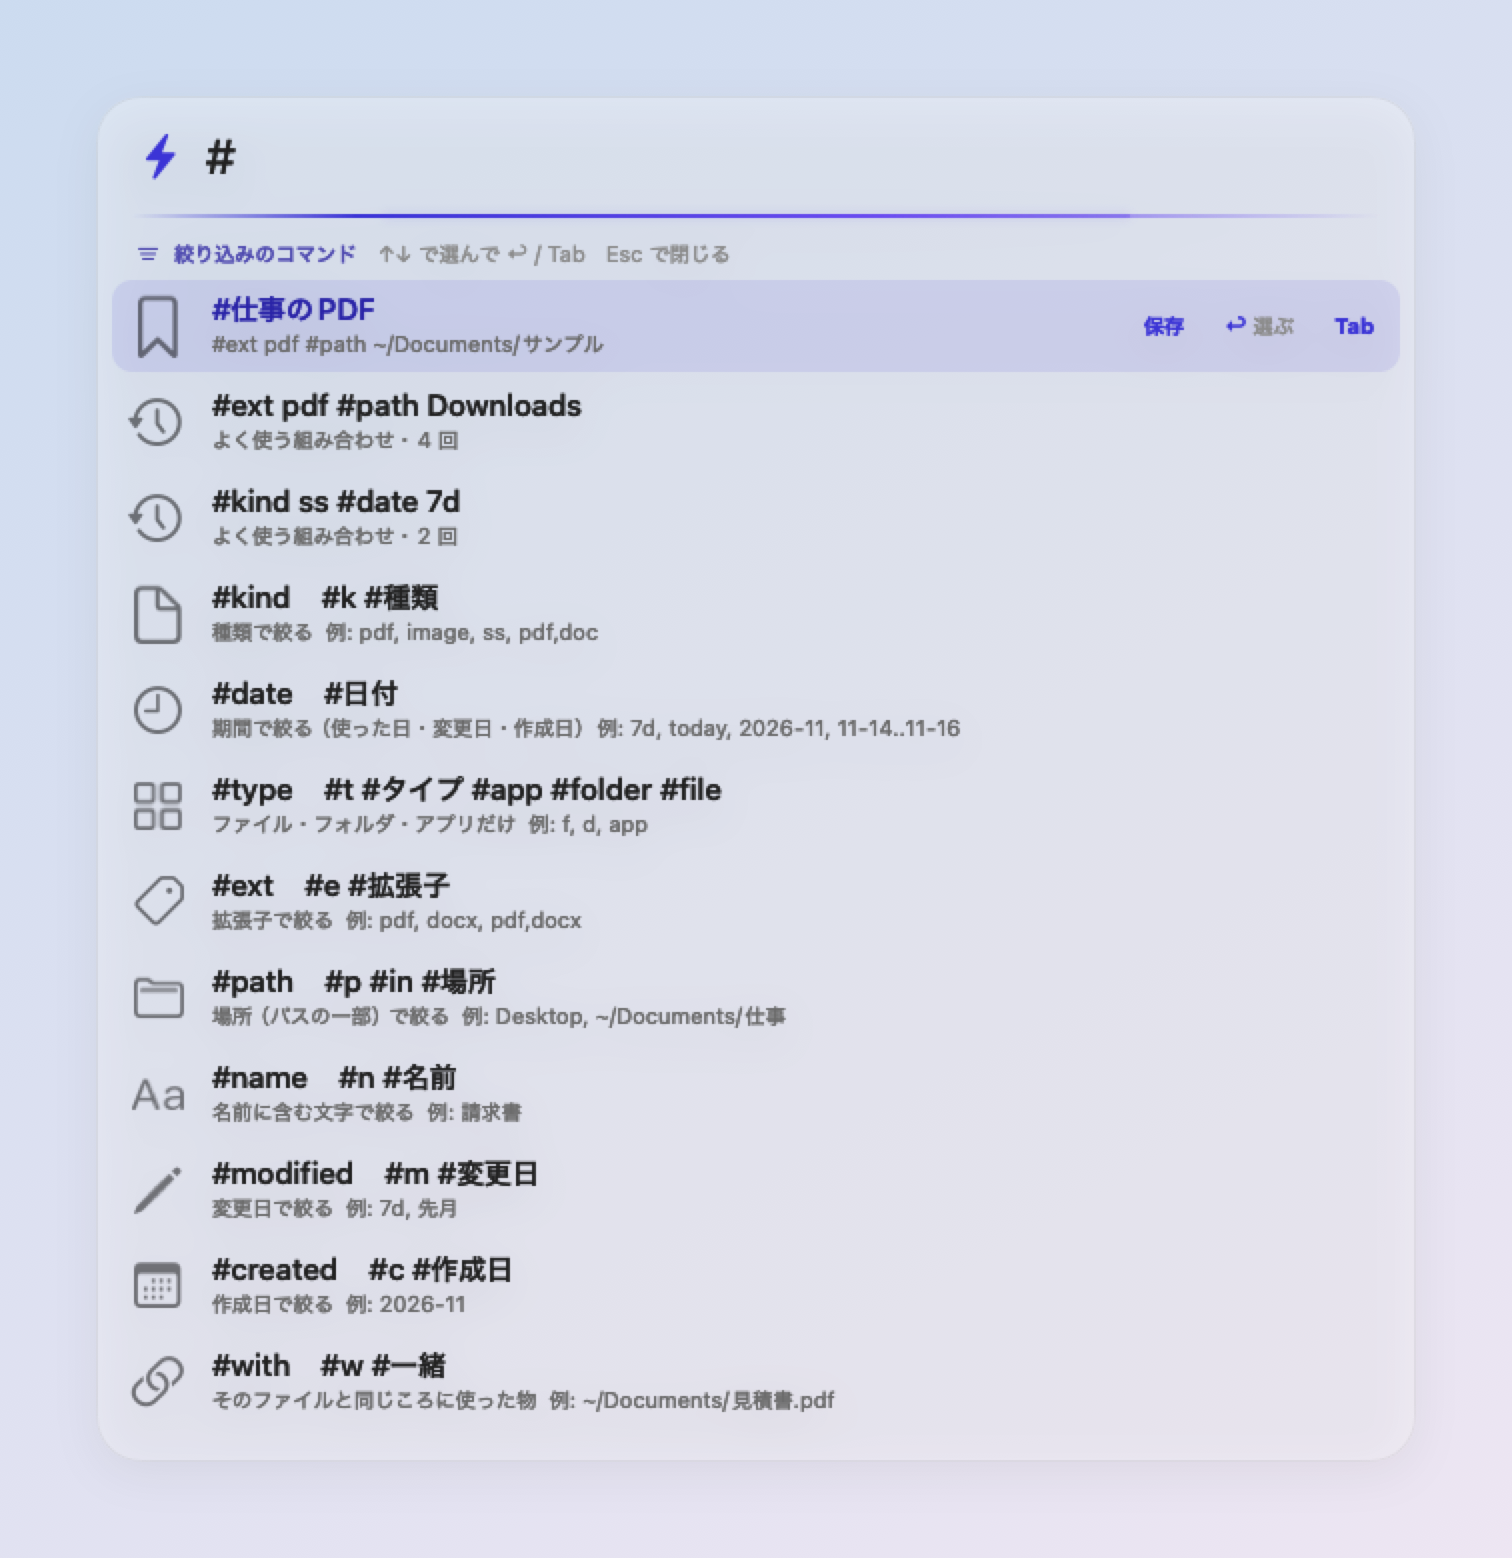
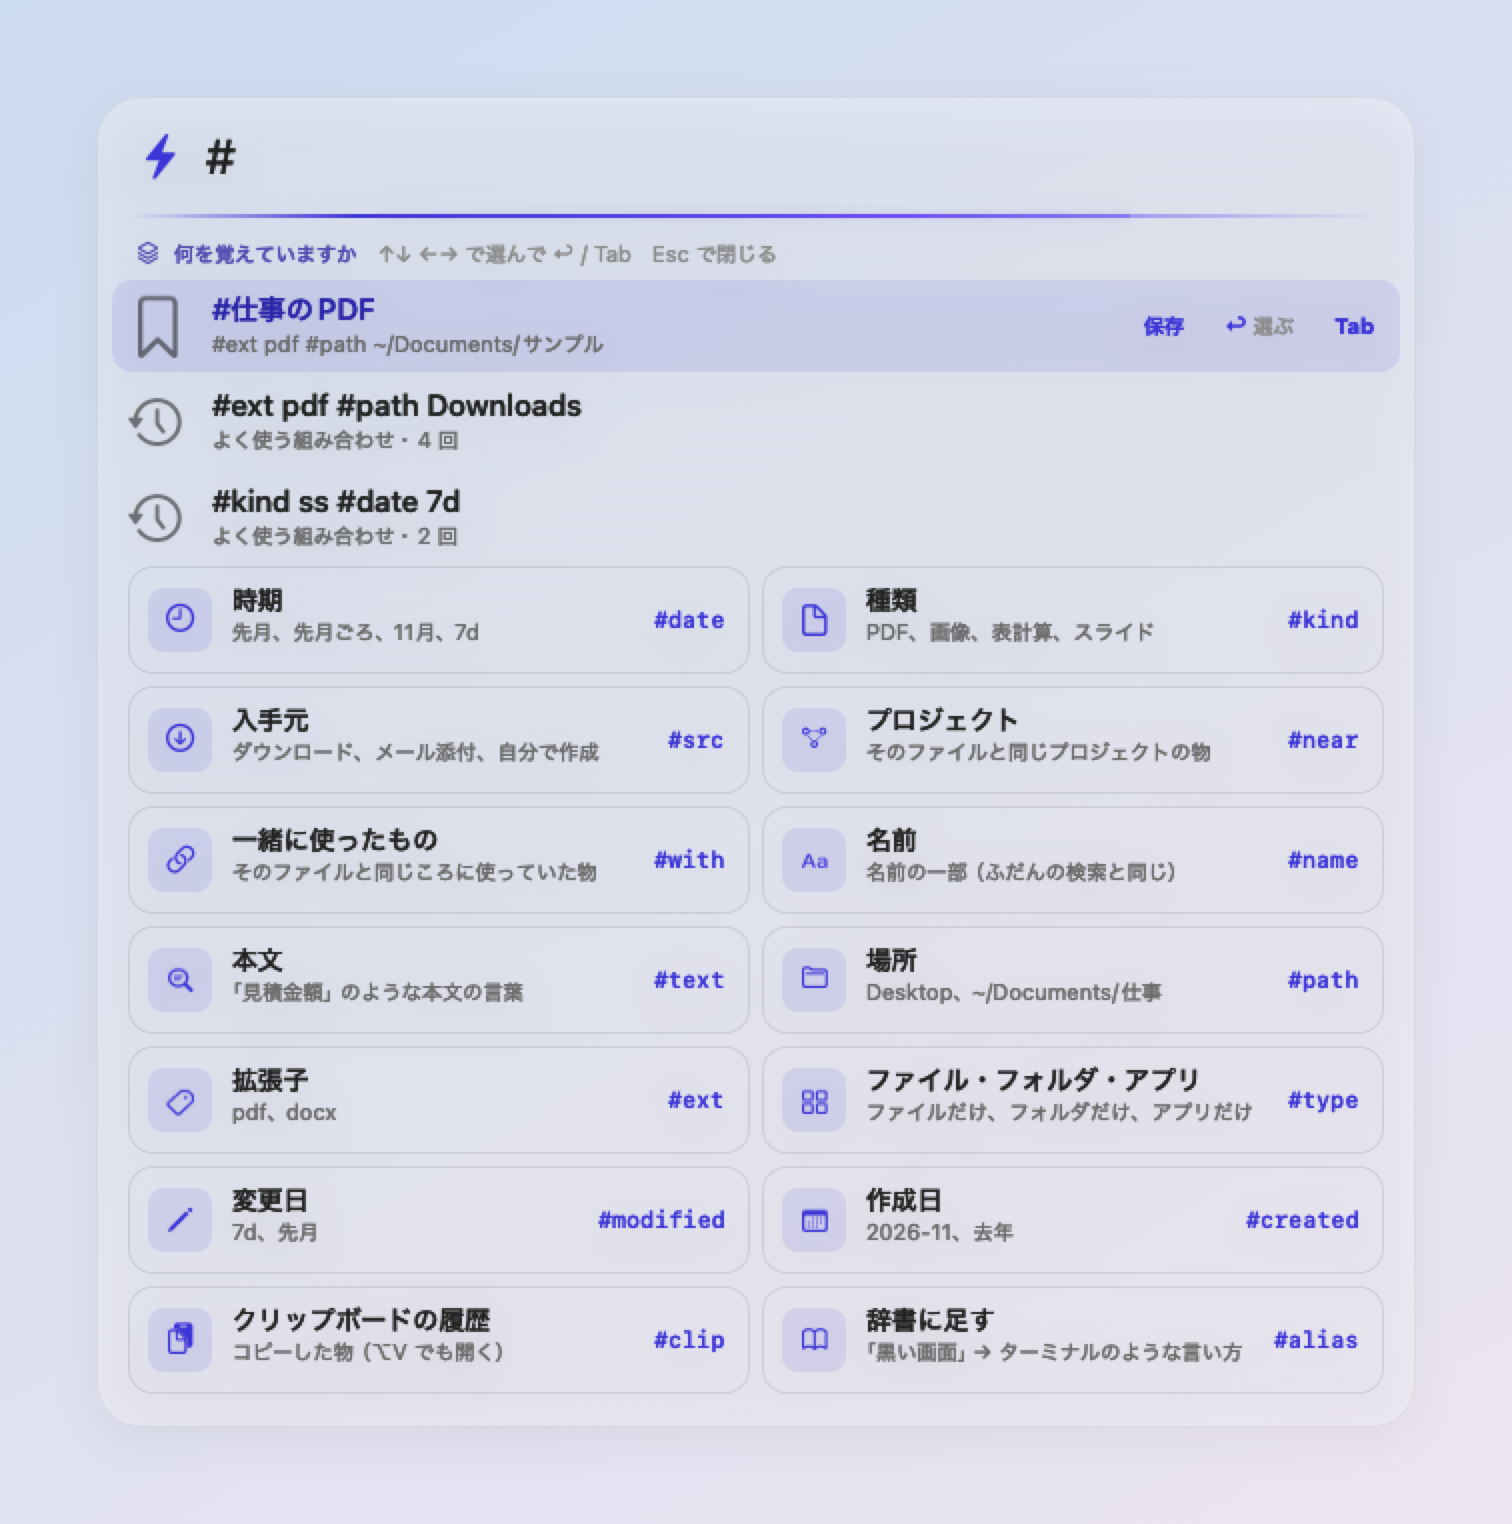
「#」の一覧に保存した条件・よく使う組み合わせがあっても、カードは 2 列のまま（履歴の行だけ 1 列。↑↓ は行とカードの間もつなぐ）

diff --git a/app/Sources/Raiden/SearchPanel.swift b/app/Sources/Raiden/SearchPanel.swift
@@ -439,6 +439,8 @@ final class SearchPanelController: NSObject, NSTextFieldDelegate, NSWindowDelega
     private var rows: [ResultRow] = []
     /// 2 列のカードで並べている（↑↓ で 2 つ、←→ で 1 つ動く）
     private var grid = false
+    /// カードの始まりの添字（その前は 1 列の行。カードは 1 かたまりで最後まで続く）
+    private var cardStart: Int?
     static let cardHeight: CGFloat = 54, cardGap: CGFloat = 6
     private var lines: [NSView] = []
     private var results: [RowItem] = []
@@ -906,7 +908,7 @@ final class SearchPanelController: NSObject, NSTextFieldDelegate, NSWindowDelega
                    Self.messageHeight)
         }
         var listH: CGFloat = 0
-        grid = !secs.isEmpty && secs.allSatisfy { $0.items.allSatisfy(\.card) }
+        cardStart = nil
         for sec in secs {
             // 全体が見つからないときは上に大きく出しているので、節の見出しには添えない
             let fadeNote = sec.faded && !notFound ? "見つかりません" : nil
@@ -915,27 +917,31 @@ final class SearchPanelController: NSObject, NSTextFieldDelegate, NSWindowDelega
                 entries.append(.header(title, sec.symbol, fadeNote))
                 listH += Self.headerHeight
             }
-            if sec.items.allSatisfy(\.card) {
-                var k = 0
-                while k < sec.items.count {
-                    let i = results.count
-                    for item in sec.items[k..<min(k + 2, sec.items.count)] { results.append(item); rowAlpha.append(1) }
-                    entries.append(.pair(i, k + 1 < sec.items.count ? i + 1 : nil))
+            // カードは 2 つずつ 1 段に、それ以外（保存した条件・よく使う組み合わせ）は 1 行ずつ
+            var k = 0
+            let items = sec.items
+            while k < items.count {
+                let i = results.count
+                if items[k].card {
+                    if cardStart == nil { cardStart = i }
+                    let two = k + 1 < items.count && items[k + 1].card
+                    for item in items[k..<(k + (two ? 2 : 1))] { results.append(item); rowAlpha.append(1) }
+                    entries.append(.pair(i, two ? i + 1 : nil))
                     listH += Self.cardHeight + Self.cardGap
-                    k += 2
+                    k += two ? 2 : 1
+                } else {
+                    entries.append(.row(i))
+                    results.append(items[k])
+                    rowAlpha.append(notFound || sec.faded ? 0.5 : 1)
+                    listH += Self.rowHeight
+                    k += 1
                 }
-                continue
-            }
-            for item in sec.items {
-                entries.append(.row(results.count))
-                results.append(item)
-                rowAlpha.append(notFound || sec.faded ? 0.5 : 1)
-                listH += Self.rowHeight
             }
         }
         if keep, !results.isEmpty {
             selected = results.firstIndex { Self.key($0) == keepKey } ?? min(keepIndex, results.count - 1)
         }
+        grid = cardStart != nil
         buildRows(upTo: max(Self.rowBatch - 1, selected + 20))
         lastLayout = (topH, listH)
         updateWide()
@@ -1073,6 +1079,20 @@ final class SearchPanelController: NSObject, NSTextFieldDelegate, NSWindowDelega
     var firstResultPath: String? { results.first?.candidate?.path }
     var builtRowCount: Int { rows.count }
     var scrollOffset: CGFloat { scroll.contentView.bounds.minY }
+
+    private var onCard: Bool { cardStart.map { selected >= $0 } ?? false }
+
+    /// ↑↓ で動く数。カードの間は 1 段（2 つ）、1 列の行からカードへ・カードから 1 列の行へは隣へ
+    private func verticalStep(_ d: Int) -> Int {
+        guard let cs = cardStart, selected >= cs else { return d }
+        let n = selected + 2 * d
+        if d < 0 && n < cs { return cs > 0 ? (cs - 1) - selected : d }   // 一番上の段から上: 1 列の最後の行へ
+        if d > 0 && n >= results.count {
+            // 最後の段の 1 つ上で、右の列には下が無い: 最後のカードへ。最後の段からは一番上へ回る
+            return (selected - cs) / 2 < (results.count - 1 - cs) / 2 ? (results.count - 1) - selected : -selected
+        }
+        return 2 * d
+    }
 
     private func moveSelection(_ d: Int) {
         guard !results.isEmpty else { return }
@@ -1263,16 +1283,16 @@ final class SearchPanelController: NSObject, NSTextFieldDelegate, NSWindowDelega
         if filterInput.handle(sel) { return true }
         switch sel {
         case #selector(NSResponder.moveDown(_:)):
-            moveSelection(grid ? 2 : 1)
+            moveSelection(verticalStep(1))
             return true
         case #selector(NSResponder.moveUp(_:)):
-            moveSelection(grid ? -2 : -1)
+            moveSelection(verticalStep(-1))
             return true
-        // 2 列のカードの間は ←→ で左右に動く（入力欄のカーソルが末尾にあるときだけ）
-        case #selector(NSResponder.moveLeft(_:)) where grid && textView.selectedRange().location == (textView.string as NSString).length:
+        // 2 列のカードの間は ←→ で左右に動く（カードを選んでいて、入力欄のカーソルが末尾にあるときだけ）
+        case #selector(NSResponder.moveLeft(_:)) where onCard && textView.selectedRange().location == (textView.string as NSString).length:
             moveSelection(-1)
             return true
-        case #selector(NSResponder.moveRight(_:)) where grid && textView.selectedRange().location == (textView.string as NSString).length:
+        case #selector(NSResponder.moveRight(_:)) where onCard && textView.selectedRange().location == (textView.string as NSString).length:
             moveSelection(1)
             return true
         case #selector(NSResponder.insertNewline(_:)):
